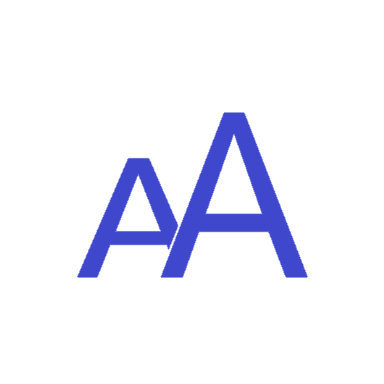
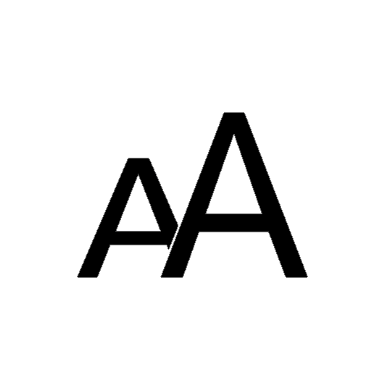
color corrections

Changed region(s): [[0.1875, 0.2812, 0.8125, 0.75]]

diff --git a/code/reader.js b/code/reader.js
@@ -262,13 +262,13 @@ function dragEnd(a) {
       case 0: case 12: //swipe left
         if (!parent.toogleFinder) return false
         if (!transIsChecked())
-          parent.toogleFinder() //pink button
+          parent.toogleFinder() //yellow button
         else toggleTrans() //T button
         return true
       case 6: //swipe right
         if (!parent.toogleFinder) return false
         if (transIsChecked())
-          parent.toogleFinder() //pink button
+          parent.toogleFinder() //yellow button
         else toggleTrans() //T button
         return true
       case 9: //swipe down
@@ -356,7 +356,8 @@ function initReader() {
     vers2.innerHTML = 'Iqra '+VERSION+'&emsp;'
     // console.log(swipe)  //TouchHandler
     sureS.onchange = () => {gotoSura(sureS.selectedIndex+1)}
-    pgNum.onkeydown= keyToPage
+    pgNum.onkeydown = keyToPage
+    dialogOK.onclick = (e) => {e.key='Enter'; keyToPage(e)}
     pageA.onclick = handlePageNum
     bkgd.onclick = (e) => e.target===bkgd? hideElement(bkgd) : 0
     makeMenu(starA, menuS, makeStarMenu)

diff --git a/code/reader.css b/code/reader.css
@@ -190,7 +190,7 @@ body {
       background-color : #dcd6;
     }
     .checked { 
-      background-color : #ff7;
+      background-color : #ff7a;
       border: 1px solid brown;
     }
     ::selection {
@@ -223,7 +223,7 @@ body {
     z-index: 5;
   }
   .dialog {
-    width: 170px;
+    width: 180px;
     padding: 20px;
     display: block;
     margin: 40px auto;

diff --git a/design/index.html b/design/index.html
@@ -46,7 +46,7 @@ Wide screen needs no transition between panels</p>
 Tablet mode is tricky -- we need intuitive transitions</p>
 
 <p><img src="phone.png" alt="phone" /> <br>
-Phone: Horizotal swipe and pink buttons</p>
+Phone: Horizontal swipe and yellow buttons</p>
 
 <h3 id="user-interface">User interface</h3>
 

diff --git a/reader.html b/reader.html
@@ -29,6 +29,7 @@
   <div class="dialog">
     <span id=page2></span>
     <input id=pgNum type=text inputmode=decimal>
+    <button id=dialogOK title="OK">✔</button>
 <pre><span id=dia1></span>
 <span id=dia2></span>
 <span id=dia3></span>

diff --git a/code/common.js b/code/common.js
@@ -3,7 +3,7 @@
 /**
  * The code version.
  */
-const VERSION = "V4β3";
+const VERSION = "V4β4";
 
 /**
  * &ensp; used in Mujam and VerseRef

diff --git a/design/design.md b/design/design.md
@@ -25,7 +25,7 @@ Wide screen needs no transition
 Tablet mode is tricky
 
 ![phone](phone.png) 
-Horizotal swipe and pink buttons
+Horizotal swipe and yellow buttons
 
 ### User interface
 
